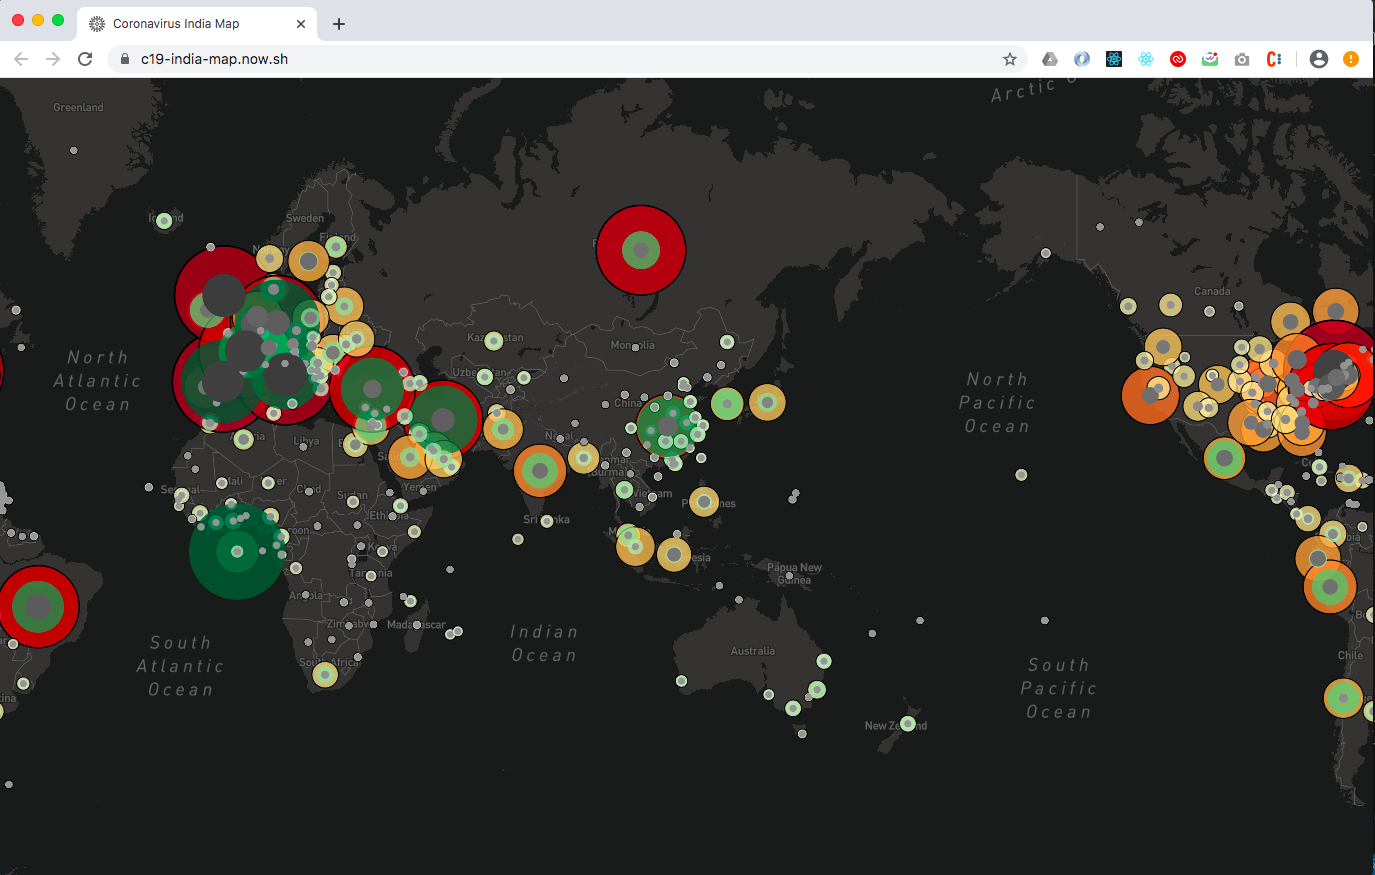
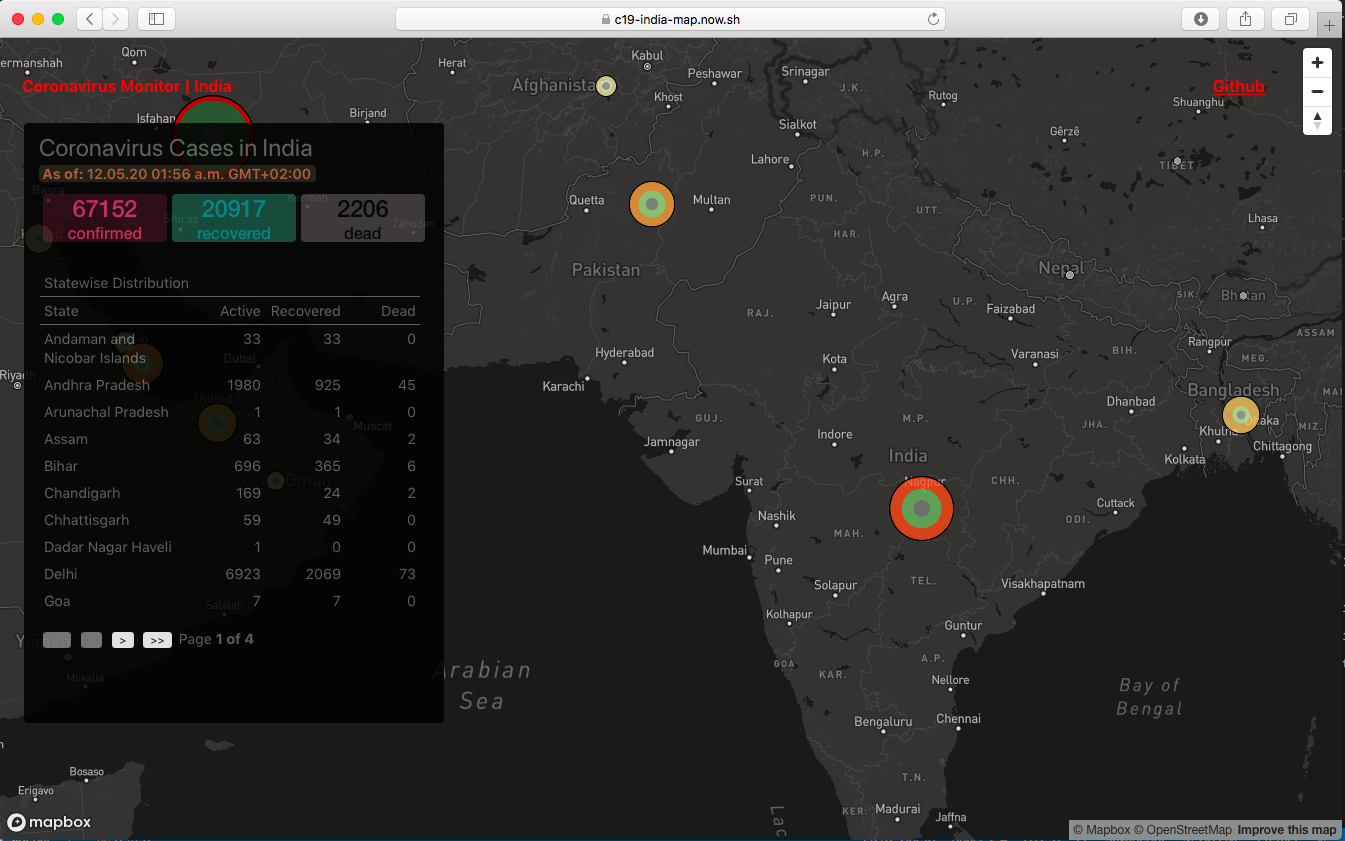
improve styling

diff --git a/src/components/CasesTable.js b/src/components/CasesTable.js
@@ -14,9 +14,9 @@ const Styles = styled.div`
 
         .table {
             display: inline-block;
-            height: 360px;
+            height: 240px;
             border-spacing: 0;
-            line-height: 1.4;
+            line-height: 1.3;
 
             .tr {
                 :last-child {
@@ -45,6 +45,10 @@ const Styles = styled.div`
                 border-bottom: 1px solid;
             }
         }
+
+        .pagination-container {
+            padding: 0.25rem;
+        }
     }
 `
 
@@ -68,7 +72,7 @@ const CasesTable = ({ columns, data }) => {
     } = useTable({
             columns,
             data,
-            initialState: { pageIndex: 0 }
+            initialState: { pageIndex: 0, pageSize: 6 }
         },
         useSortBy,           // hook for getting sorting capability
         usePagination,       // hook for setting pagination
@@ -113,7 +117,7 @@ const CasesTable = ({ columns, data }) => {
                         })}
                     </div>
                 </div>
-                <div>
+                <div className="pagination-container">
                     <button onClick={() => gotoPage(0)} disabled={!canPreviousPage}>
                     {"<<"}
                     </button>{" "}
